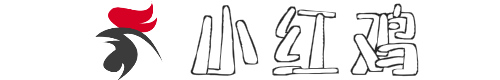
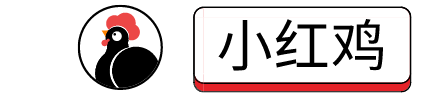
修改logo

diff --git a/public/stylesheets/style.css b/public/stylesheets/style.css
@@ -42,7 +42,7 @@ a{
 
 .header a.logo{
   float: left;
-  height: 45px;
+  height: 55px;
   padding: 0;
   width: 335px;
   background: url(/images/headerico.png);
@@ -227,8 +227,8 @@ header .email{
 }
 .header a.logo{
   background: url(/images/headerico2.png);
-  width: 40px;
-  height: 40px;
+  width: 55px;
+  height: 55px;
   background-size: auto 100%;
   background-repeat: no-repeat;
 }

diff --git a/public/stylesheets/post.css b/public/stylesheets/post.css
@@ -402,6 +402,7 @@ body{
     border: 1px solid #ddd;
     border-radius: 50%;
     vertical-align: middle;
+    box-shadow:unset;
   }
   .author .info {
     vertical-align: middle;
